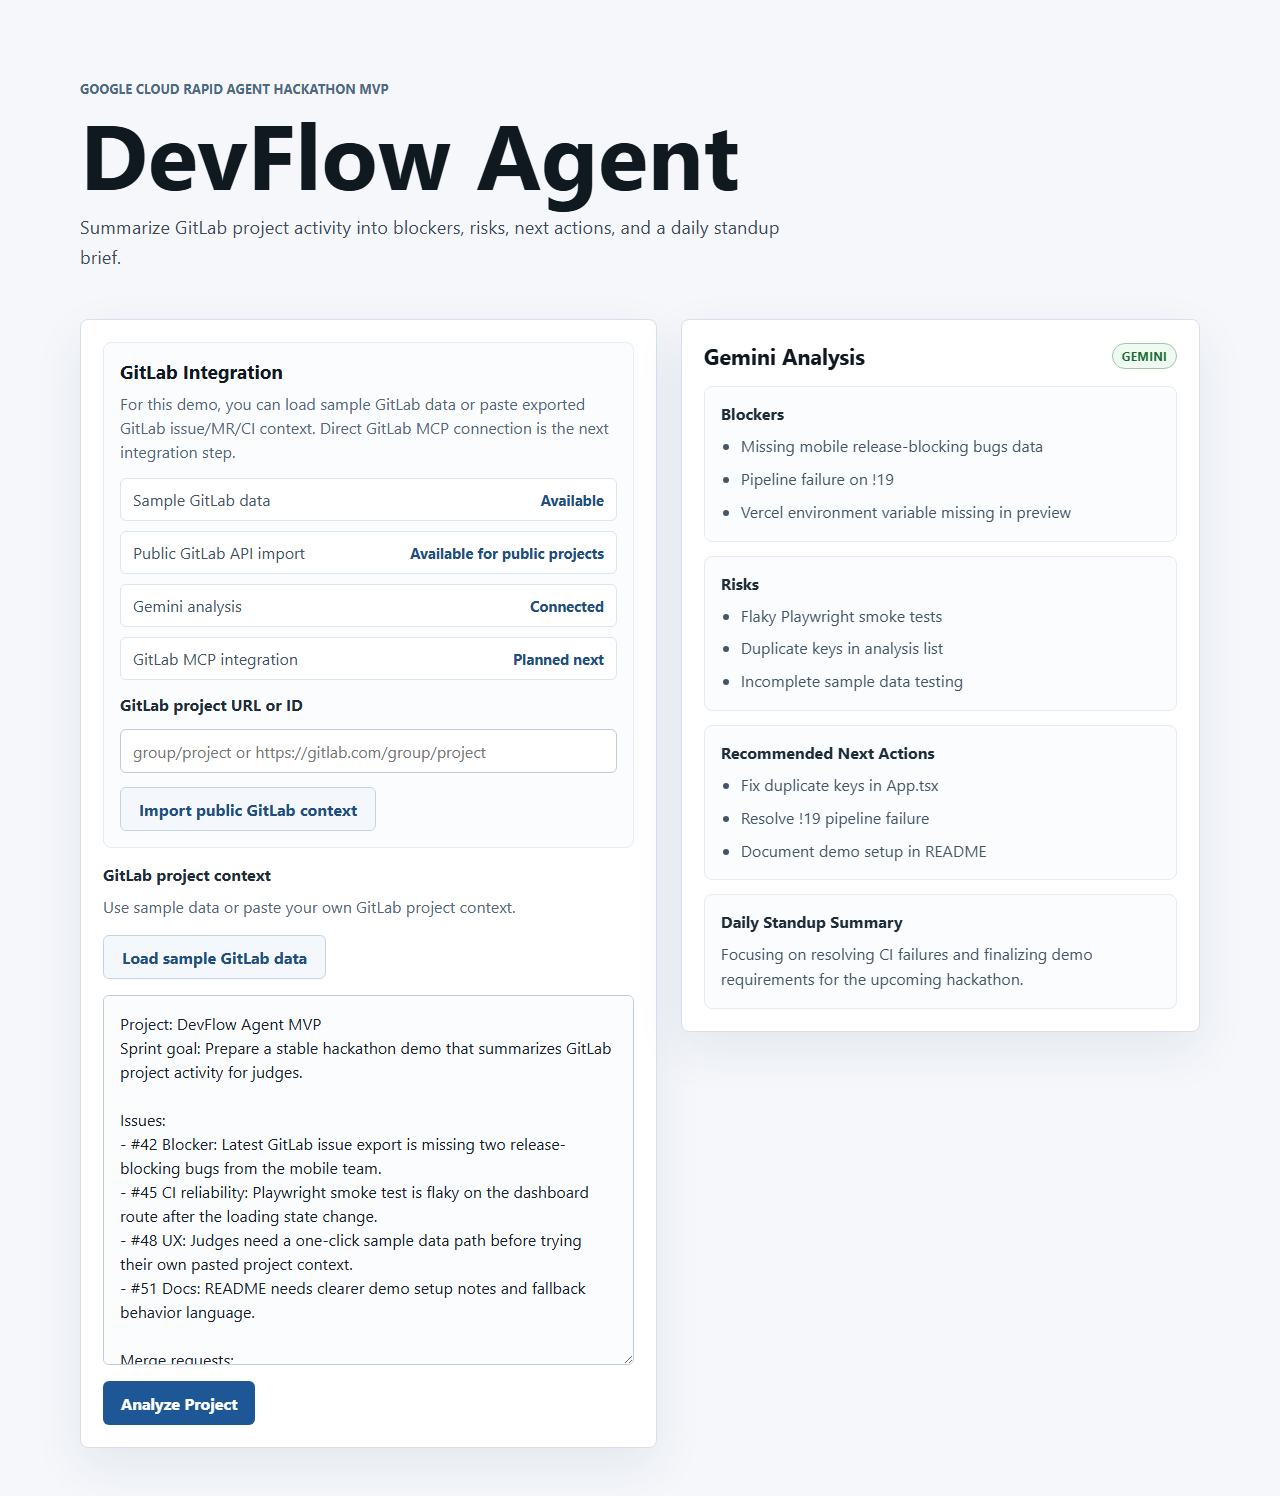
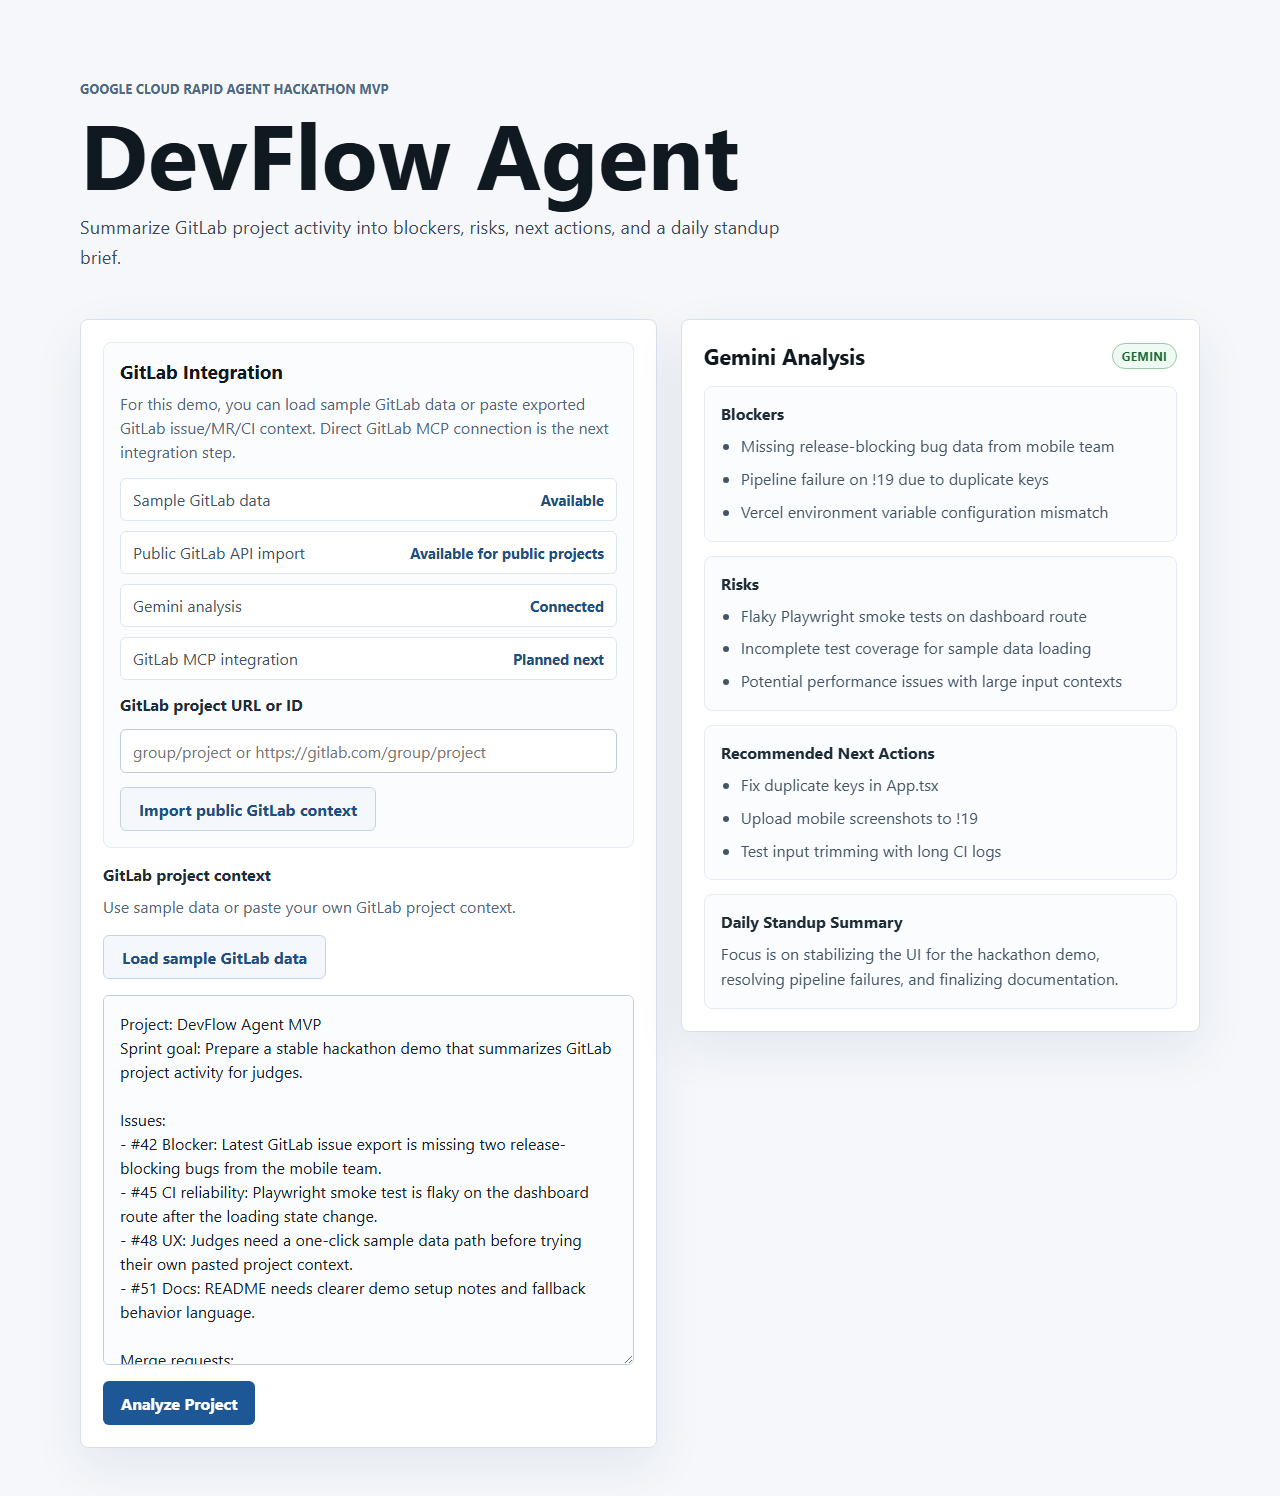
Polish integration status badges

diff --git a/src/App.tsx b/src/App.tsx
@@ -161,19 +161,19 @@ function App() {
             <div className="integration-card" aria-label="Integration status">
               <div>
                 <span>Sample GitLab data</span>
-                <strong>Available</strong>
+                <strong className="status-badge status-ready">Available</strong>
               </div>
               <div>
                 <span>Public GitLab API import</span>
-                <strong>Available for public projects</strong>
+                <strong className="status-badge status-ready">Available for public projects</strong>
               </div>
               <div>
                 <span>Gemini analysis</span>
-                <strong>Connected</strong>
+                <strong className="status-badge status-ready">Connected via Gemini 3.1 Flash Lite</strong>
               </div>
               <div>
                 <span>GitLab MCP integration</span>
-                <strong>Planned next</strong>
+                <strong className="status-badge status-planned">Planned next</strong>
               </div>
             </div>
             <label htmlFor="gitlab-project">GitLab project URL or ID</label>

diff --git a/src/styles.css b/src/styles.css
@@ -144,6 +144,50 @@ label {
   font-size: 0.92rem;
 }
 
+.status-badge {
+  display: inline-flex;
+  gap: 7px;
+  align-items: center;
+  border-radius: 999px;
+  padding: 4px 9px;
+  line-height: 1.2;
+  white-space: nowrap;
+}
+
+.status-ready {
+  color: #1d6b34;
+  background: #effaf2;
+}
+
+.status-ready::before {
+  width: 8px;
+  height: 8px;
+  border-radius: 50%;
+  background: #27a844;
+  box-shadow: 0 0 0 0 rgba(39, 168, 68, 0.45);
+  content: "";
+  animation: status-pulse 1.8s ease-out infinite;
+}
+
+.status-planned {
+  color: #53616f;
+  background: #f1f4f7;
+}
+
+@keyframes status-pulse {
+  0% {
+    box-shadow: 0 0 0 0 rgba(39, 168, 68, 0.45);
+  }
+
+  70% {
+    box-shadow: 0 0 0 6px rgba(39, 168, 68, 0);
+  }
+
+  100% {
+    box-shadow: 0 0 0 0 rgba(39, 168, 68, 0);
+  }
+}
+
 .input-helper {
   margin: -6px 0 0;
   color: #52687a;
